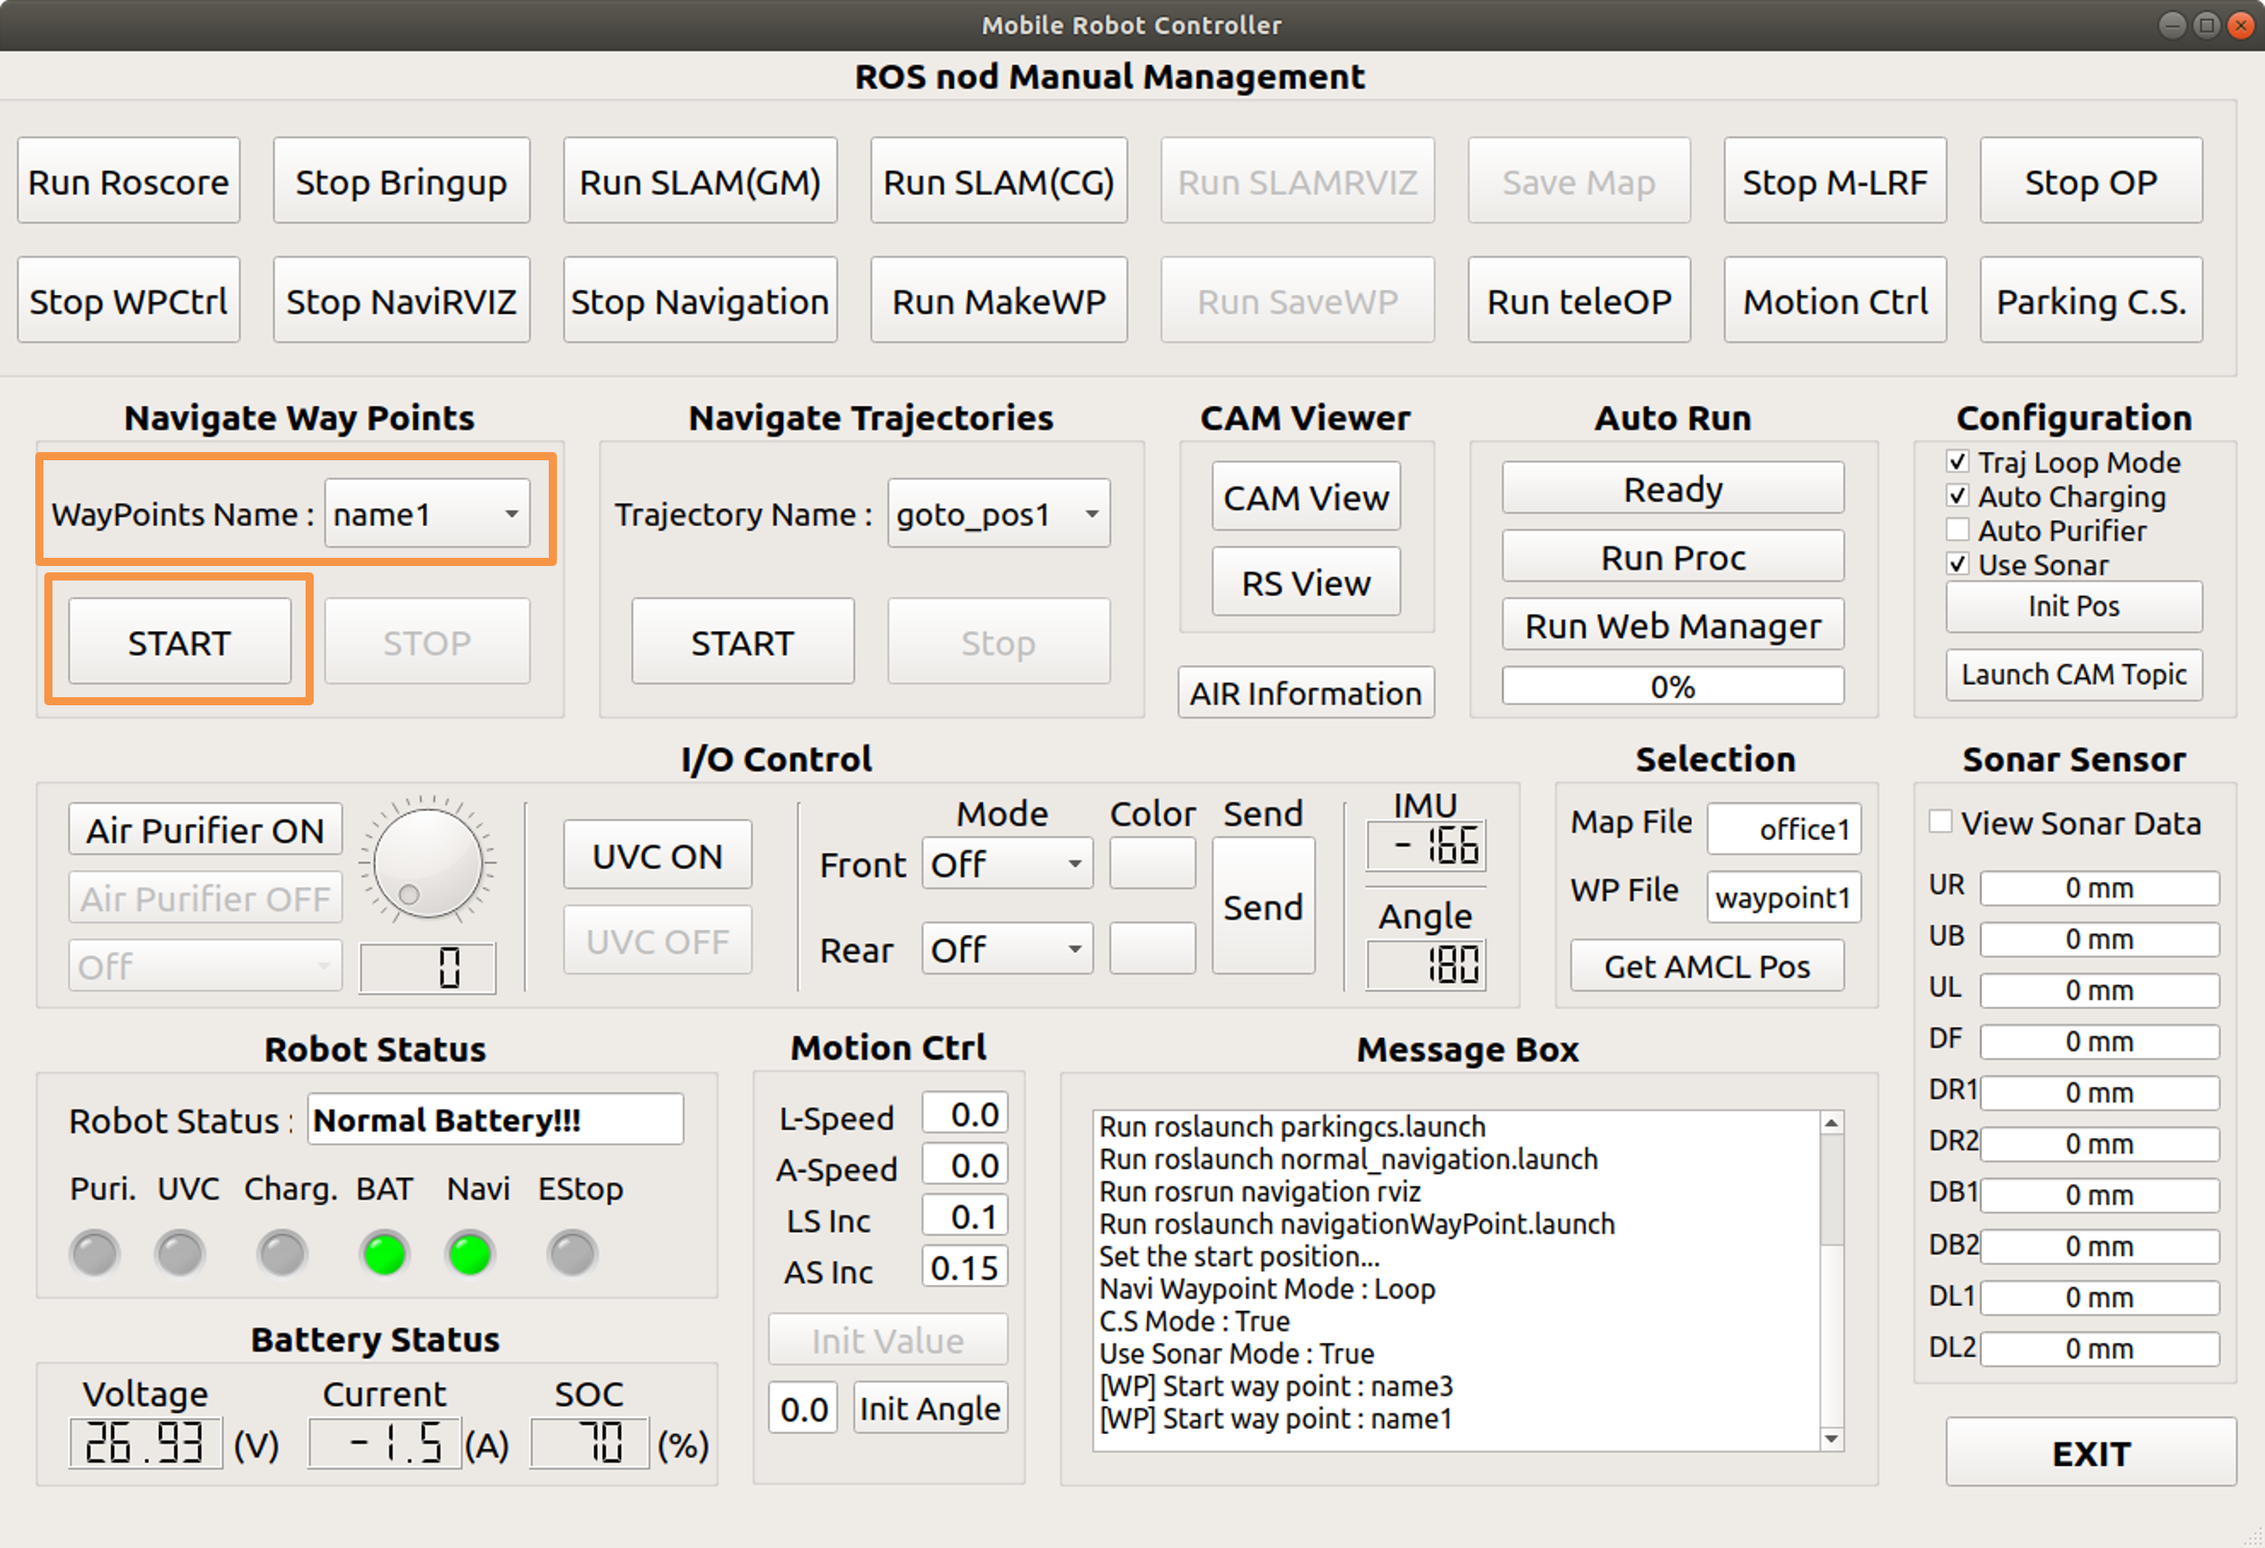
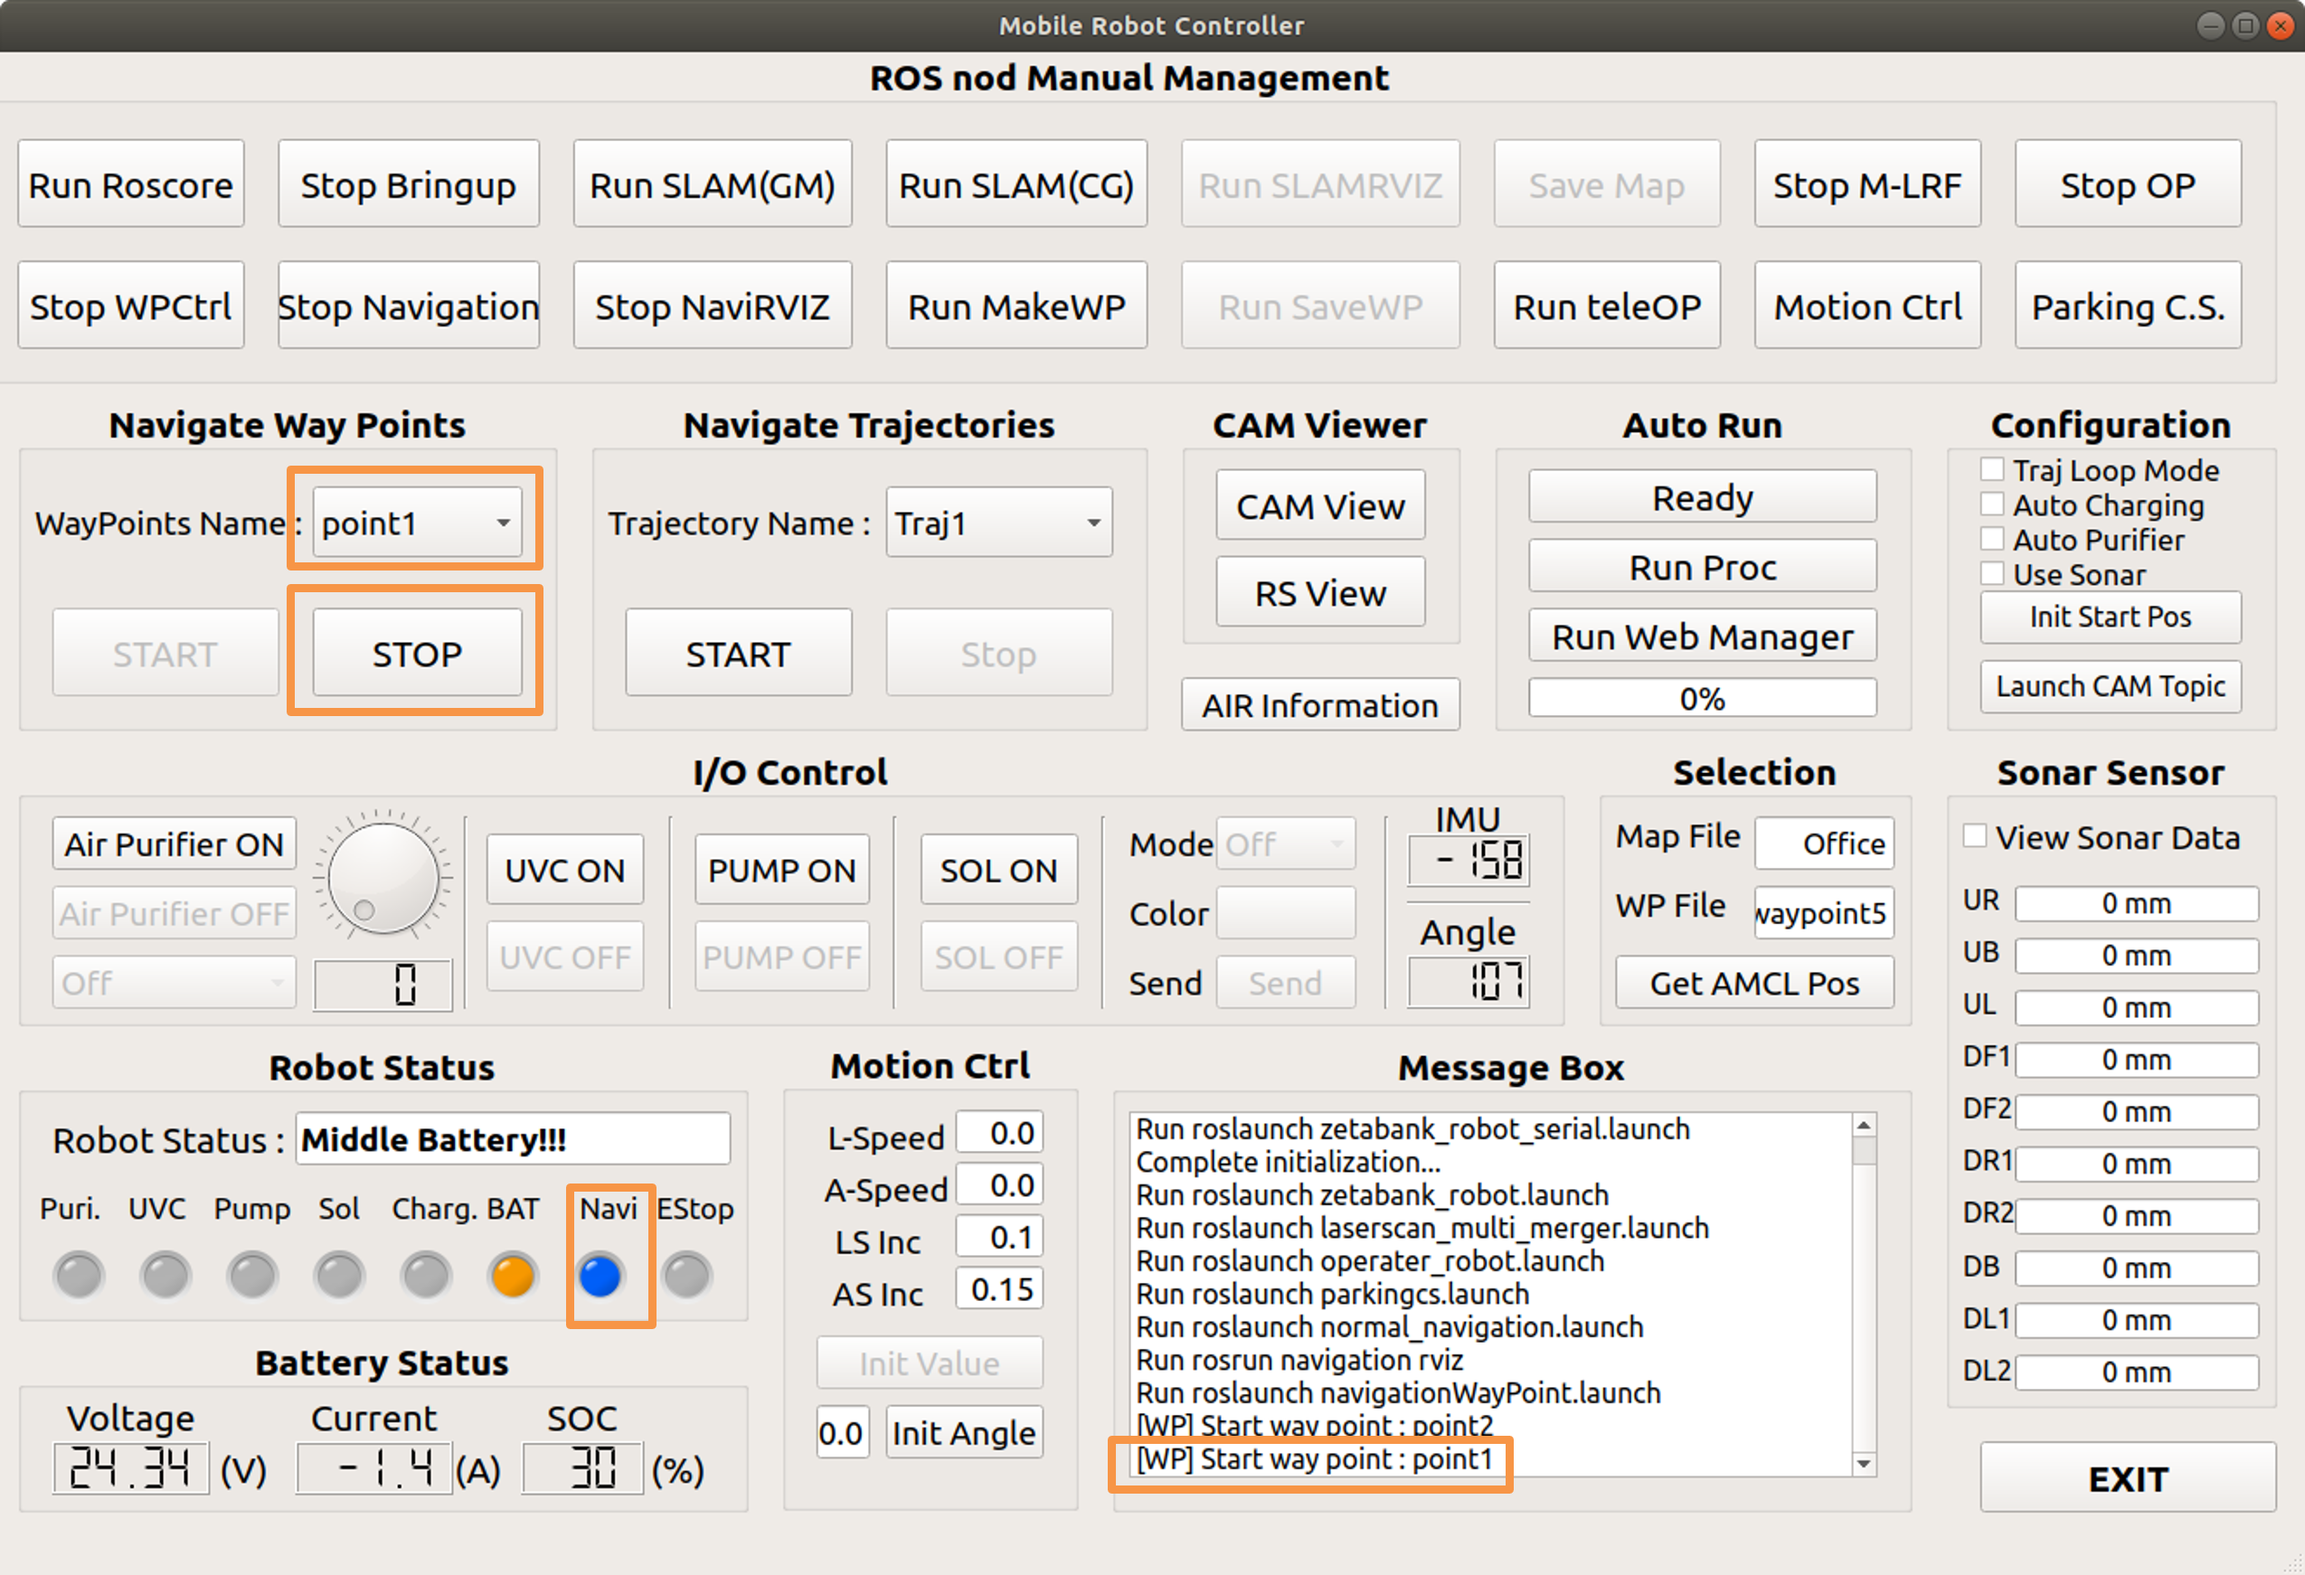
update naviwaypoints

diff --git a/docs/source/operate/gui/Navigate Way Points.rst b/docs/source/operate/gui/Navigate Way Points.rst
@@ -7,11 +7,15 @@ For illustrative purposes, the coordinates are given as name1, name2, and name3.
 
 --------------------------------------------------------------------------------
 
-**Go to name3 coordinates**
+**Go to point2 coordinates**
 
 .. thumbnail:: /_images/start_gui/naviwaypoints.png
 
-- After selecting name3, press the start button and check the start phrase in the message box.
+- After selecting point2, press the start button.
+
+- The start button is disabled and the stop button is enabled.
+
+- It is displayed in the message box, and the LED color under the navi changes to blue.
 
 ------------------------------------------------------------------------------------------------------
 
@@ -23,25 +27,29 @@ For illustrative purposes, the coordinates are given as name1, name2, and name3.
 
 .. thumbnail:: /_images/start_gui/naviwaypoints3.png
 
-- When costmap is cleared, it moves to name3 coordinates.
+- When costmap is cleared, it moves to point2 coordinates.
 
 ------------------------------------------------------------------------------------------------------
 
 -------------------------------------------------------------------------------------------------------
 
-**Go to name1 coordinates**
+**Go to point1 coordinates**
 
 .. thumbnail:: /_images/start_gui/naviwaypoints4.png
 
-- After selecting name1, press the start button and check the start phrase in the message box.
+- After selecting point1, press the start button.
+
+- The start button is disabled and the stop button is enabled.
+
+- It is displayed in the message box, and the LED color under the navi changes to blue.
 
 ------------------------------------------------------------------------------------------------------
 
 .. thumbnail:: /_images/start_gui/naviwaypoints5.png
 
-- The start button is disabled and the stop button is enabled.
+- When you arrive at your destination, the start button is enabled and the stop button is disabled.
 
-- The color of the LED below the Navi will also change to blue.
+- The color of the LED below the Navi will also change to green.
 
 ------------------------------------------------------------------------------------------------------
 
